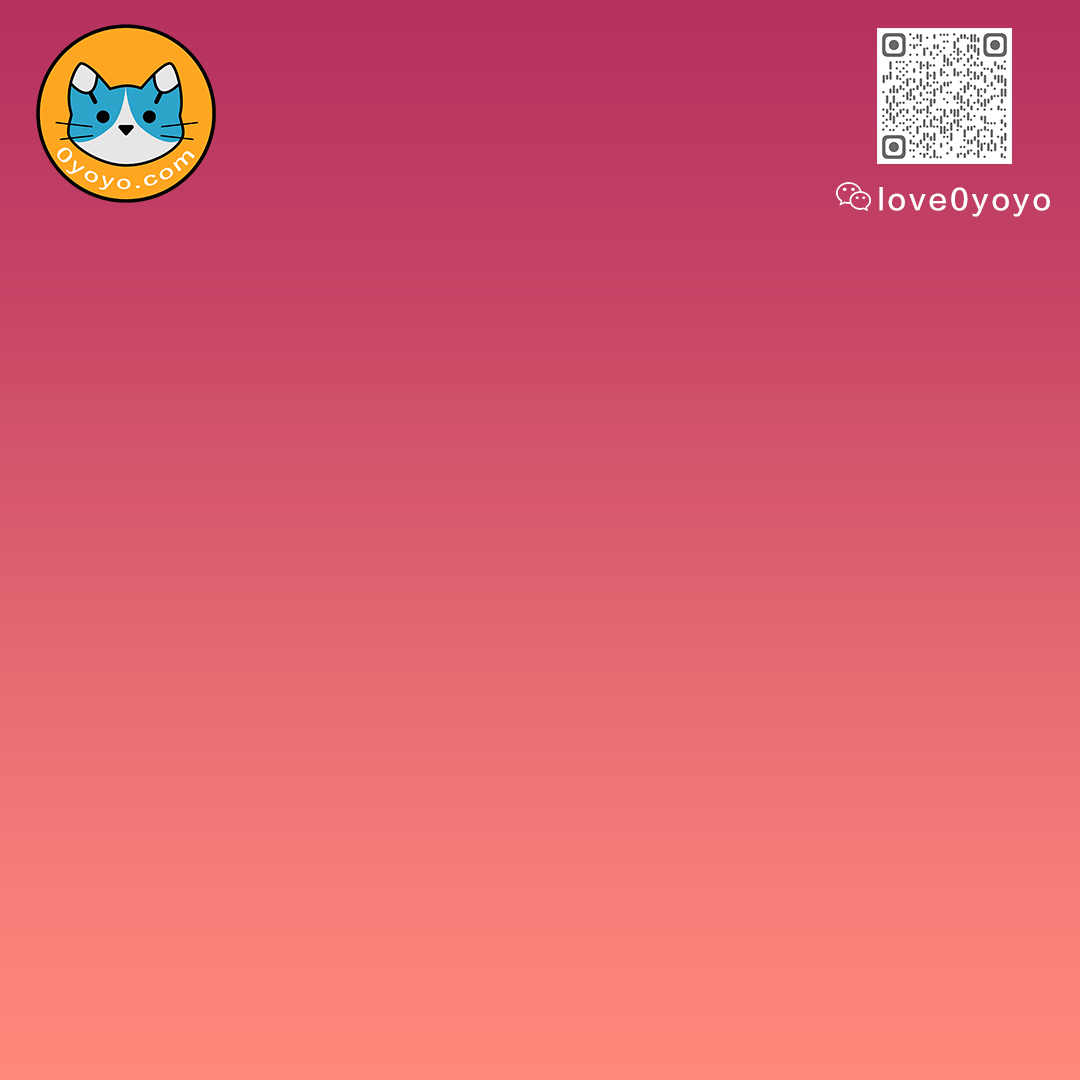
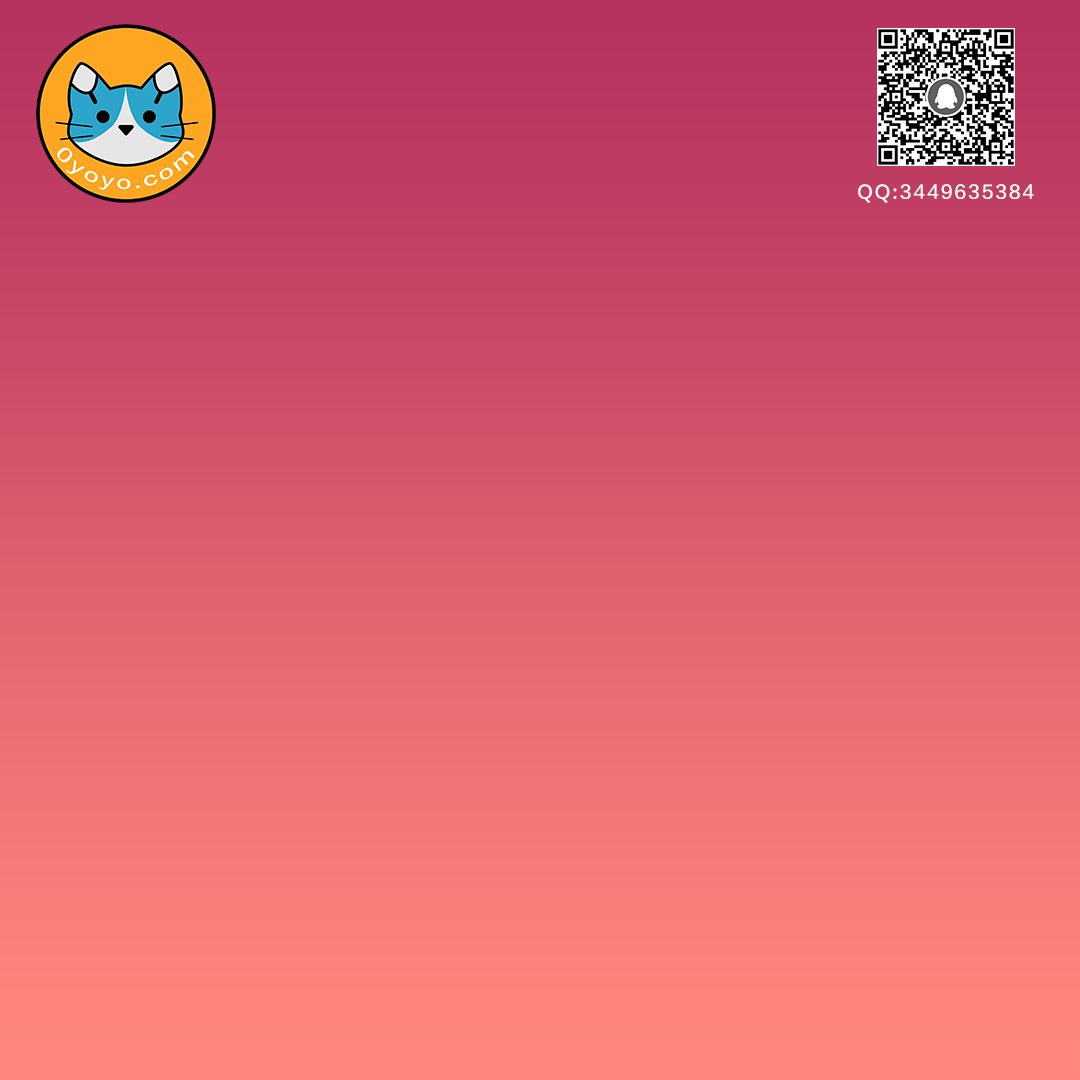
更新微信为qq

Changed region(s): [[0.7639, 0.0306, 0.9778, 0.2139]]

diff --git a/index.html b/index.html
@@ -28,7 +28,7 @@
 								<div class="content color0 span-3-75">
 									<h1 class="major">欢迎来到<br />
 									灵悠悠</h1>
-									<p>这里是 <strong>灵悠悠</strong>, 一家优品推荐服务商。目前主要推广<strong>MAT电子烟</strong>以及MAT品牌的零售与咨询服务。感兴趣的朋友欢迎加微信：<strong>love0yoyo</strong>进行咨询。</p>
+									<p>这里是 <strong>灵悠悠</strong>, 一家优品推荐服务商。目前主要推广<strong>MAT电子烟</strong>以及MAT品牌的零售与咨询服务。感兴趣的朋友欢迎加QQ：<strong>3449635384</strong>进行咨询。</p>
 									<ul class="actions">
 										<li><a href="#first" class="button primary color1 circle icon solid fa-angle-right">Next</a></li>
 									</ul>
